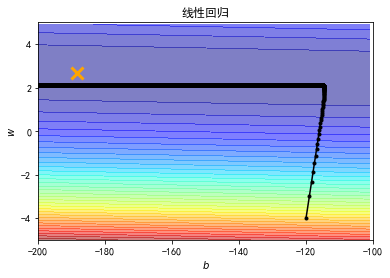
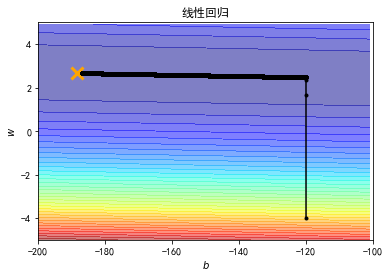
完成第37期李宏毅机器学习Task06内容

Changed region(s): [[0.0923, 0.2302, 0.8615, 0.777]]

diff --git a/docs/lee_ml37/task06.md b/docs/lee_ml37/task06.md
@@ -1,1 +1,57 @@
 # Task06 卷积神经网络
+
+## 1 CNN特点（为什么用CNN?）
+
+&emsp;&emsp;CNN可用于影像处理，用比较少的参数进行模型训练
+- 使用小区域：对一个神经网络来说，假设要判断一个图片中有没有某一个部分出现，其实不需要看整张图，只要看该图的一小部分即可。
+- 使用小匹配：同样的匹配在一幅图中，可能会出现在不同图的其他地方，但是代表的是同样的含义，它们有同样的形状，可以用同样的神经网络处理。
+- 使用下采样：例如将一个图片变成远来十分之一的大小，不会影响对图片的理解，可用相同的神经网络处理。
+
+## 2 CNN架构
+
+![chapter21-8.png](./images/ch06/chapter21-8.png)
+
+1. 将一张图片经过`Convolution`层和`MaxPooling`层，并重复多次
+2. 经过`Flatten`层
+3. 最后经过全连接前馈网络，得到影像辨识的结果
+
+### 2.1 Convolution
+
+- Property1：使用若干个`filter`去检测整张图在该范围内有没有某一个部分的出现
+- Property2：将一个`filter`与图片的左上角进行内积，然后根据`stride`移动`filter`，逐步计算内积，继续使用下一个`filter`进行处理
+
+- Convolution与Full Connected的关系：Convolution把一些`weight`拿掉了之后进行计算。
+
+### 2.2 Max Pooling
+
+- 原理：将输出的结果进行分组，然后计算各组的平均或选取最大，将图片进一步缩小
+
+### 2.3 Flatten
+
+- 原理：将所有的`feature map`拉直，然后传入全连接前馈神经网络
+
+## 3 CNN的本质（CNN学到了什么？）
+
+1. `filter`层的作用：仅侦测图中的某个区域
+2. 第k层`filter`的本质：使用梯度下降，求取$x^* =\arg \max \limits_x a^k$，其中$\displaystyle a^k = \sum_{i=1}^{11} \sum_{j=1}^{11} a_{ij}^k $ 
+3. 全连接层的作用：侦测图中比较大的区域
+
+## 4 CNN的应用
+
+- 围棋：将落子的图像传给CNN进行训练，输入是19\*19的向量，每一个向量的值对应到棋盘上的每一个位置，通过CNN之后，输出下一步落子的位置。
+
+- AlphaGo：符合CNN的3个特点
+  1. 仅需要通过一个小区域就可以判断下一步落子的位置，例如第1个`filter`使用的是5\*5
+  2. 同样的类型会出现在不同的区域上
+  3. 网络架构：输入是一个19\*19\*48的图片，且第1层将输入进行扩展，把原来19\*19的图片外围补上更多的0，让它变成23\*23的图片，其中并没有使用Max Pooling
+
+- 语音：将声音表示成`Spectrogram`(横轴表示时间，纵轴表示该时间里面声音的频率)，并把这个看成一个图片，输入给CNN，在语音上，只考虑在频率方向上移动`filter`，其目的符合获得同样的类型出现在不同的区域，可以用同一个`filter`进行处理。
+
+- 文本：`word sequence`的每一个`word`可以用一个词向量表示，如果两个`word`越接近，词向量在高维的空间上就越接近，被称为`Word Embedding`；将所有句子的`word`排在一起，并将其看成一个图片，输入给CNN，其中`filter`沿着句子里面词汇的顺序来移动,然后通过Max Pooling和全连接层，得到结果。
+
+## 5 总结
+
+&emsp;&emsp;本次任务，主要介绍了CNN的特点、网络结构和相关的应用：
+1. CNN具有3个特点：可使用一部分图、同一种类型可以出现在图的不同位置、可以进行图片下采样
+2. CNN模型网络结构：多个Convolution和Max pooling的组合结构、Flatten层和全连接前馈神经网络
+3. 其他应用举例：围棋、语音、文本

diff --git a/docs/lee_ml37/task02.md b/docs/lee_ml37/task02.md
@@ -97,8 +97,8 @@ for i in range(len(x)):
 # linear regression
 b = -120
 w = -4
-lr = 1
-iteration = 1000000
+lr = 0.000005
+iteration = 1400000
 
 b_history = [b]
 w_history = [w]
@@ -111,26 +111,27 @@ start = time.time()
 
 # 梯度下降
 for i in range(iteration):
-    b_grad = 0.0
-    w_grad = 0.0
-    for n in range(len(x_data)):
-        b_grad= b_grad - 2.0 * (y_data[n] - n - w*x_data[n]) * 1.0
-        w_grad= w_grad - 2.0 * (y_data[n] - n - w*x_data[n]) * x_data[n]
-    
-    lr_b = lr_b+b_grad**2
-    lr_w = lr_w+w_grad**2
+    m = float(len(x_d))
+    y_hat = w * x_d  +b
+    loss = np.dot(y_d - y_hat, y_d - y_hat) / m
+    grad_b = -2.0 * np.sum(y_d - y_hat) / m
+    grad_w = -2.0 * np.dot(y_d - y_hat, x_d) / m
     
     # 参数更新
-    b -= lr / np.sqrt(lr_b) * b_grad
-    w -= lr / np.sqrt(lr_w) * w_grad
+    b -= lr * grad_b
+    w -= lr * grad_w
 
     b_history.append(b)
     w_history.append(w)
+    
 
 # 计算梯度下降时间    
 end = time.time()
 print("大约需要时间：",end-start)
 ```
+
+    大约需要时间： 13.718209743499756
+    
 
 
 ```python
